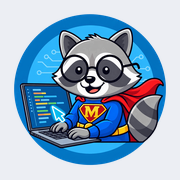
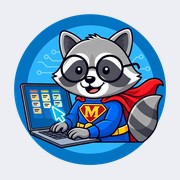
MightyWork 아이콘: 일감 보드를 보는 너구리 + 칸반 마크
MightyCode 마스코트를 MightyWork에 맞게 변형했다. 노트북 화면의 코드를
칸반 보드(할 일 · 진행 중 · 완료)로 바꾸고, 커서가 진행 중 카드를 가리킨다.
탭 파비콘과 사이드바 로고는 단순한 SVG 보드 마크를 쓰고, 마스코트는
로그인·동의 화면, iOS 홈 화면, 웹 앱 매니페스트(maskable 포함), MCP 서버
아이콘에 쓴다.

Changed region(s): [[0.1389, 0.4722, 0.3611, 0.6944], [0.3611, 0.6111, 0.4167, 0.7222]]

diff --git a/client/index.html b/client/index.html
@@ -4,10 +4,9 @@
     <meta charset="UTF-8" />
     <meta name="viewport" content="width=device-width, initial-scale=1.0" />
     <title>MightyWork</title>
-    <!-- 아이콘: MightyCode 마스코트(너구리) -->
+    <!-- 아이콘: 탭은 단순한 일감 보드 마크(SVG), 홈 화면·앱은 칸반을 보는 MightyCode 너구리 -->
+    <link rel="icon" type="image/svg+xml" href="/favicon.svg" />
     <link rel="icon" type="image/png" sizes="32x32" href="/favicon-32.png" />
-    <link rel="icon" type="image/png" sizes="16x16" href="/favicon-16.png" />
-    <link rel="icon" type="image/png" sizes="48x48" href="/favicon-48.png" />
     <link rel="apple-touch-icon" sizes="180x180" href="/apple-touch-icon.png" />
     <link rel="manifest" href="/site.webmanifest" />
     <meta name="theme-color" content="#2459e6" />

diff --git a/client/src/pages/LoginPage.tsx b/client/src/pages/LoginPage.tsx
@@ -19,7 +19,7 @@ export function LoginPage() {
   return (
     <div className="login">
       <div className="card login-card">
-        <img className="brand-logo" src="/logo.png" alt="MightyWork" width={88} height={88} />
+        <img className="brand-logo" src="/mascot-256.png" alt="MightyWork" width={88} height={88} />
         <div>
           <h1 className="dash-title">MightyWork</h1>
           <p className="dash-sub">프로젝트별 일감 파이프라인 · 위키</p>

diff --git a/client/src/features/oauth/ConsentPage.tsx b/client/src/features/oauth/ConsentPage.tsx
@@ -45,7 +45,7 @@ export function ConsentPage() {
     <div className="login">
       <div className="card consent-card">
         <div className="consent-brand">
-          <img src="/logo.png" alt="MightyWork" width={44} height={44} />
+          <img src="/mascot-256.png" alt="MightyWork" width={44} height={44} />
           <span className="consent-link">
             <PlugIcon size={14} />
           </span>

diff --git a/client/src/components/Layout.tsx b/client/src/components/Layout.tsx
@@ -20,7 +20,7 @@ export function Layout() {
     <div className="app">
       <aside className="sidebar">
         <Link to="/projects" className="side-brand" title="MightyWork">
-          <img src="/logo.png" alt="" width={22} height={22} />
+          <img src="/favicon.svg" alt="" width={22} height={22} />
           MightyWork
         </Link>
         <label className="side-search">
